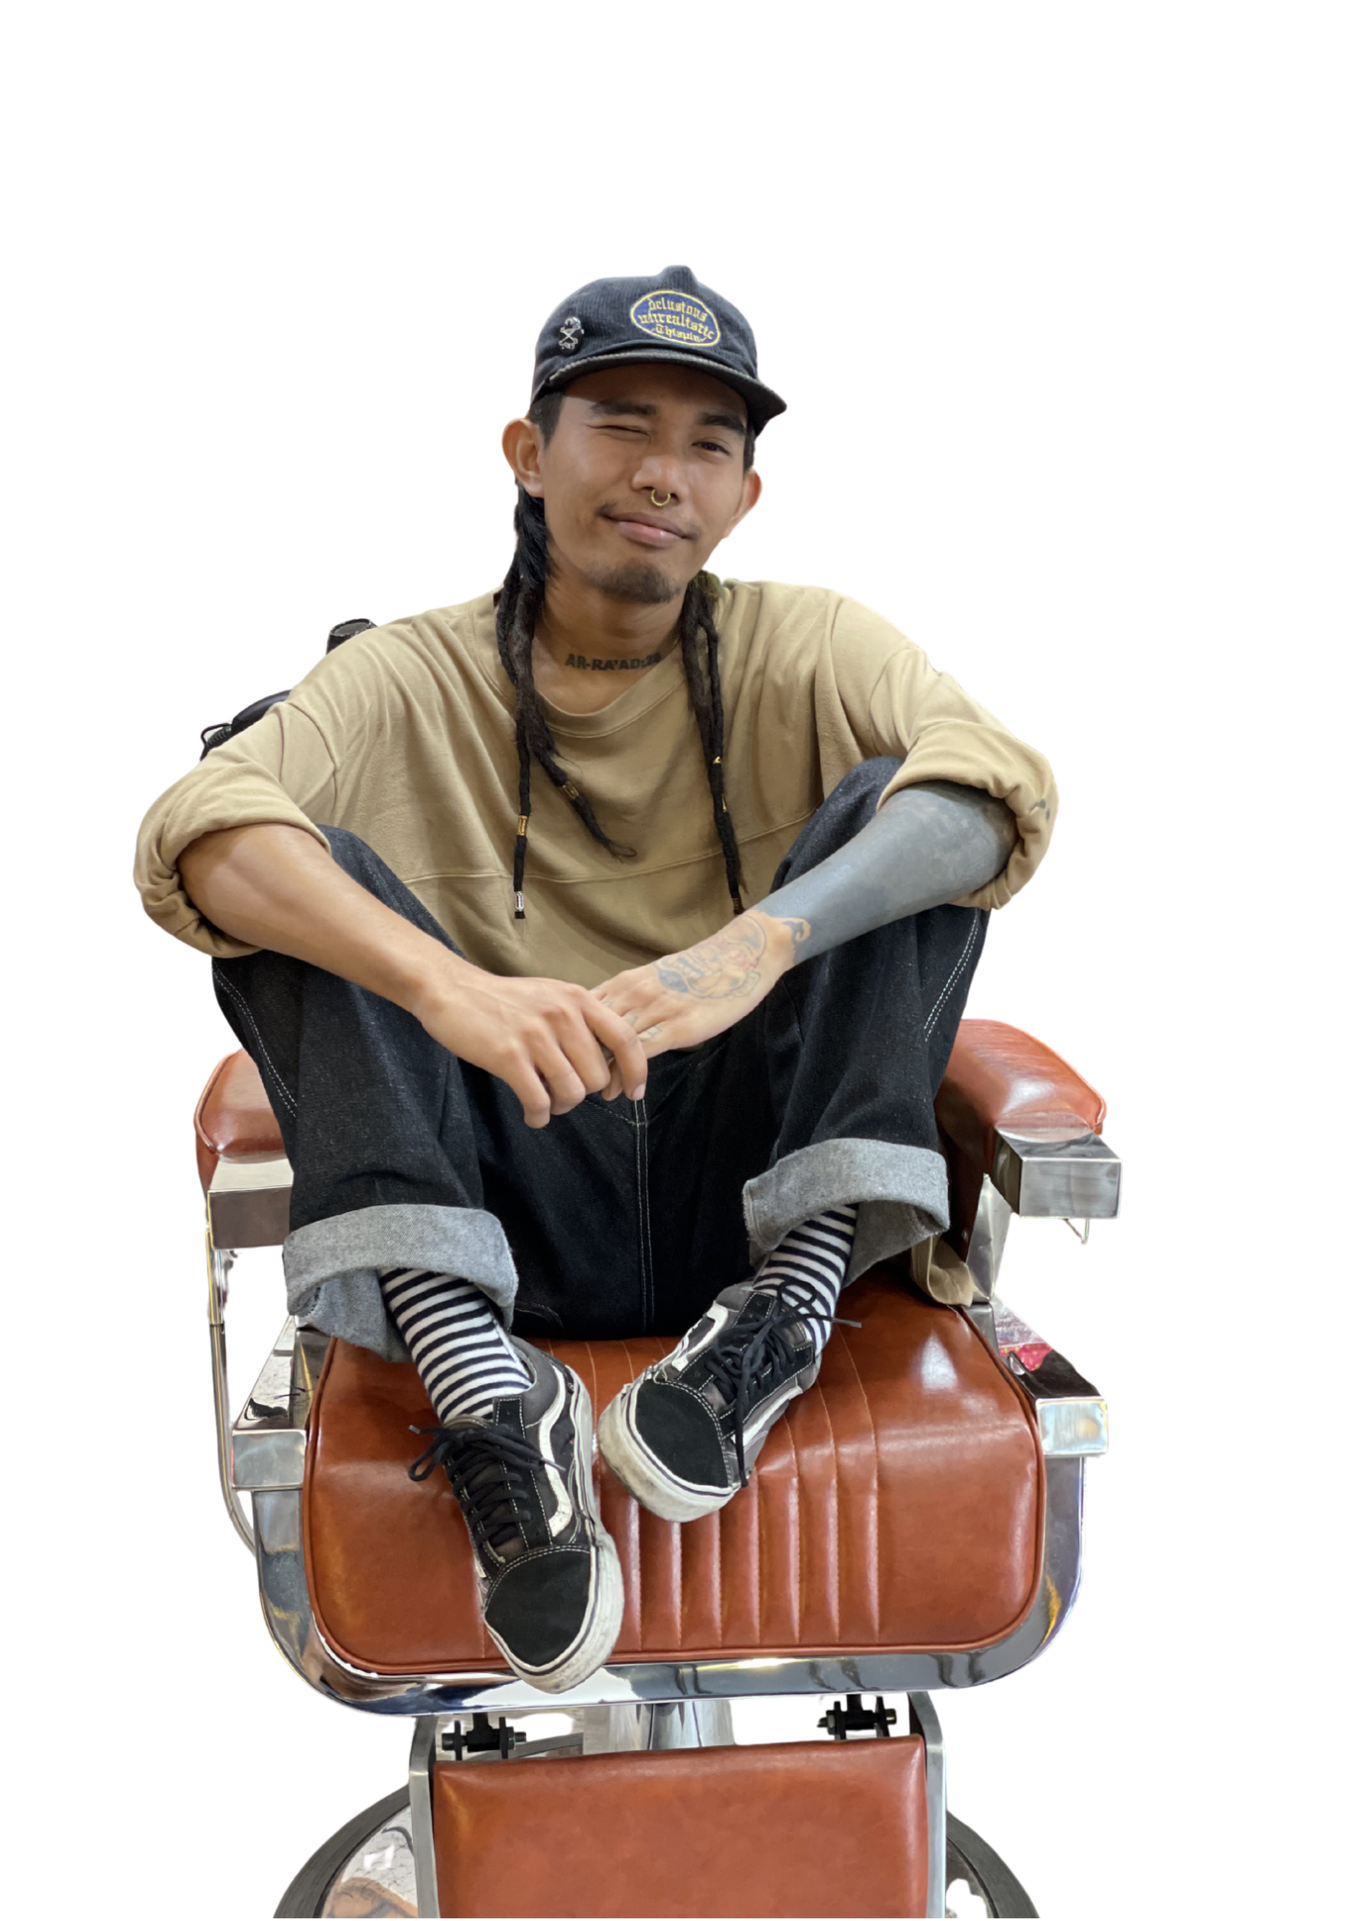
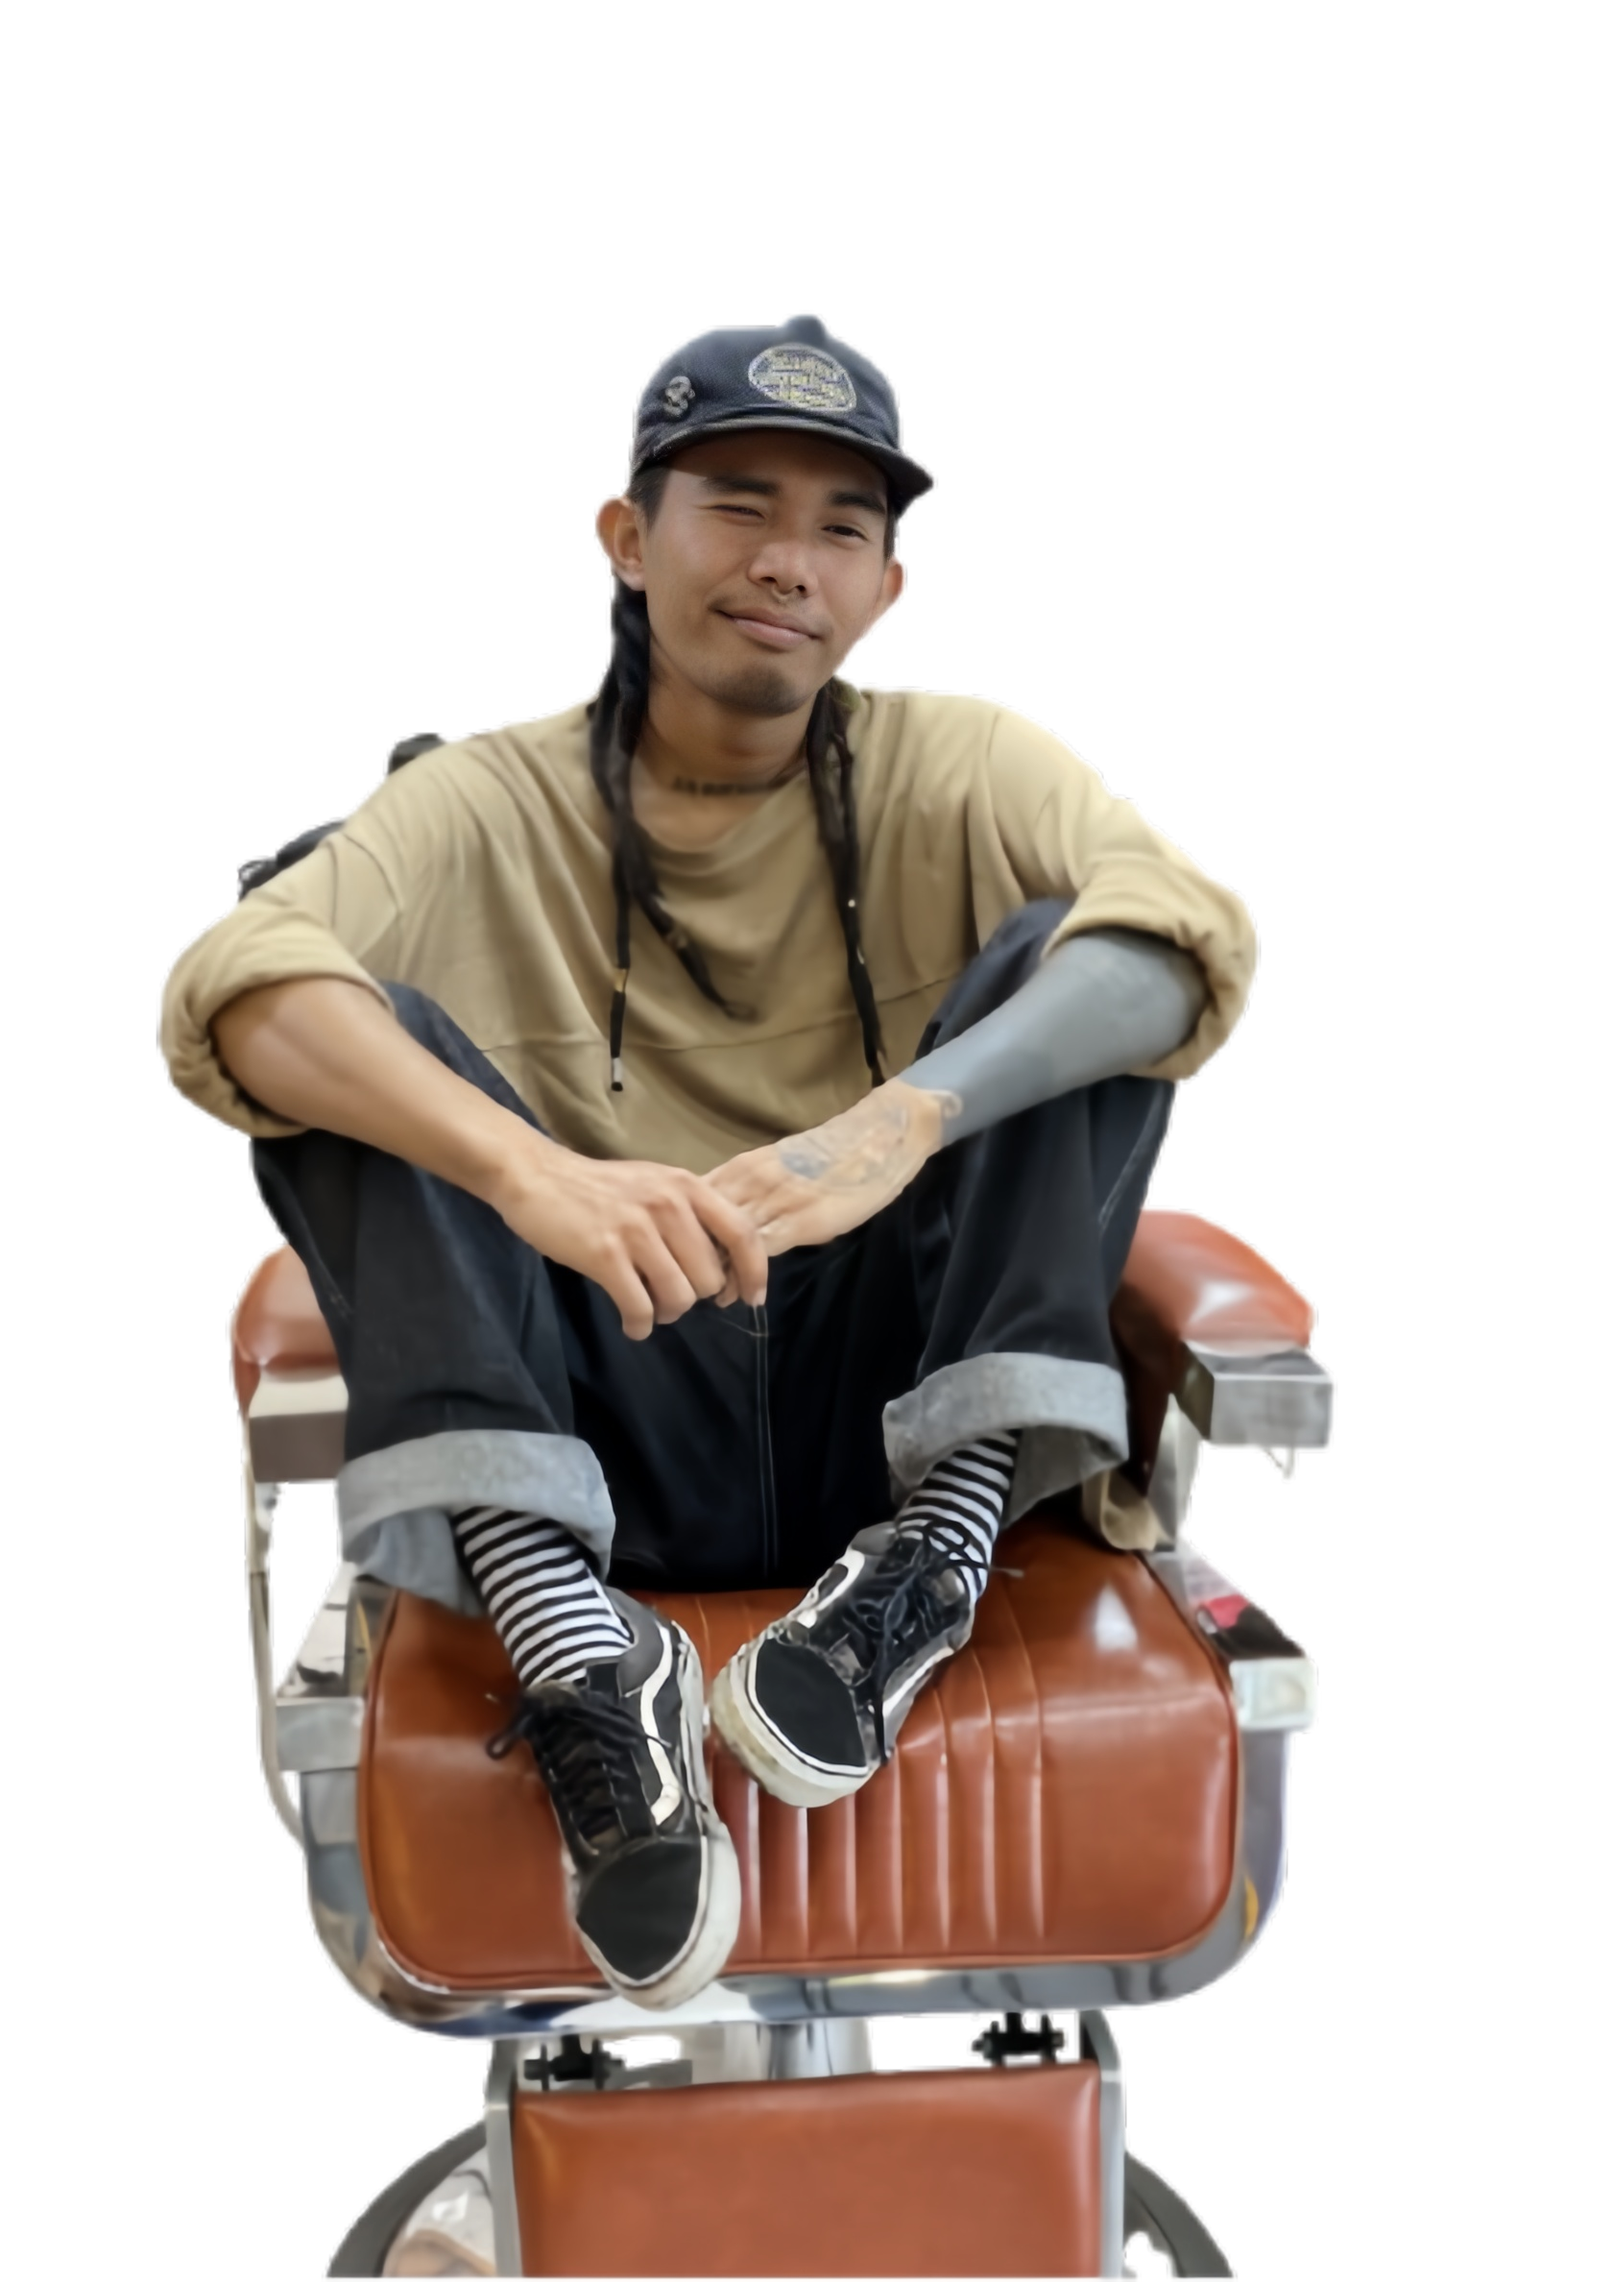
tambah konten barber grid + ubah foto owner

diff --git a/frontend/components/company/BarbermanGrid.tsx b/frontend/components/company/BarbermanGrid.tsx
@@ -16,25 +16,42 @@ interface Barber {
 }
 
 const barbers: Barber[] = [
-  { slug: "aldi",  name: "Aldi", title: "Fade Specialist",      handle: "fadeking",   rating: "4.9", reviewCount: "2300+", image: "/aldi.png",  hue: 174 },
-  { slug: "ali",    name: "Ali",     title: "Classic & Modern Cut", handle: "thesculptor", rating: "4.9", reviewCount: "1850+", image: "/ali.png",    hue: 266 },
-  { slug: "ferdi",    name: "Ferdi",     title: "Line Up & Design",     handle: "sharpie",    rating: "4.8", reviewCount: "1420+", image: "/ferdi.png",    hue: 45  },
-  { slug: "bastian", name: "Bastian Narendra", title: "Color & Beard Art",    handle: "theartist",  rating: "4.9", reviewCount: "1980+", image: "/bastian.png", hue: 24  },
+  { slug: "aldi",    name: "Aldi",             title: "Fade Specialist",       handle: "fadeking",     rating: "4.9", reviewCount: "2300+", image: "/aldi.png",    hue: 174 },
+  { slug: "wanda",   name: "Wanda",            title: "Classic & Modern Cut",  handle: "thesculptor",  rating: "4.9", reviewCount: "1850+", image: "/wanda.png",   hue: 266 },
+  { slug: "roni",    name: "Roni",             title: "Line Up & Design",      handle: "sharpie",      rating: "4.8", reviewCount: "1420+", image: "/roni.png",    hue: 45  },
+  { slug: "ali",     name: "Ali",              title: "Color & Beard Art",     handle: "theartist",    rating: "4.9", reviewCount: "1980+", image: "/ali.png",     hue: 24  },
+  { slug: "ferdi",   name: "Ferdi",            title: "Texture & Curly Cut",   handle: "curlmaster",   rating: "4.7", reviewCount: "1190+", image: "/ferdi.png",   hue: 200 },
+  { slug: "gevan",   name: "Gevan",            title: "Pompadour Expert",      handle: "slickstyle",   rating: "4.8", reviewCount: "1650+", image: "/gevan.png",   hue: 320 },
+  { slug: "ipan",    name: "Ipan",             title: "Mullet & Edgy Cut",     handle: "rebelcuts",    rating: "4.9", reviewCount: "2050+", image: "/ipan.png",    hue: 12  },
+  { slug: "iyan",    name: "Iyan",             title: "Buzz Cut Specialist",   handle: "shortnclean",  rating: "4.6", reviewCount: "980+",  image: "/iyan.png",    hue: 88  },
+  { slug: "panda",   name: "Panda",            title: "Crop & Quiff Master",   handle: "topknotpro",   rating: "4.8", reviewCount: "1340+", image: "/panda.png",   hue: 145 },
+  { slug: "ian",     name: "Ian",              title: "Vintage Pomade Style",  handle: "oldschoolcut", rating: "4.7", reviewCount: "1100+", image: "/ian.png",     hue: 300 },
+  { slug: "randy",   name: "Rabdy",            title: "Undercut Specialist",   handle: "underdog",     rating: "4.6", reviewCount: "870+",  image: "/randy.png",   hue: 230 },
+  { slug: "pandu",   name: "Pandu",            title: "Kids & Family Cut",     handle: "littlebarber", rating: "4.8", reviewCount: "1480+", image: "/pandu.png",   hue: 8   },
+  { slug: "emon",    name: "Fil Emon",         title: "Hair Tattoo Design",    handle: "inkedhair",    rating: "4.9", reviewCount: "1920+", image: "/emon.png",    hue: 280 },
 ];
 
 // Holographic behind-gradient yang mengikuti warna aksen tiap barber (tema terang)
-const accentGradient = (h: number) =>
+// offset1/offset2 menambah variasi karakter gradien antar barber tanpa mengubah struktur visual
+const accentGradient = (h: number, offset1: number = 45, offset2: number = 60) =>
   `radial-gradient(farthest-side circle at var(--pointer-x) var(--pointer-y),hsla(${h},75%,82%,var(--card-opacity)) 4%,hsla(${h},60%,76%,calc(var(--card-opacity)*0.75)) 10%,hsla(${h},45%,72%,calc(var(--card-opacity)*0.5)) 50%,hsla(${h},25%,70%,0) 100%),` +
   `radial-gradient(35% 52% at 55% 20%,hsla(${h},92%,70%,0.55) 0%,hsla(${h},92%,70%,0) 100%),` +
-  `radial-gradient(100% 100% at 50% 50%,hsla(${(h + 45) % 360},85%,72%,0.45) 1%,hsla(${h},85%,72%,0) 76%),` +
-  `conic-gradient(from 124deg at 50% 50%,hsla(${h},85%,72%,0.9) 0%,hsla(${(h + 60) % 360},88%,75%,0.9) 40%,hsla(${(h + 60) % 360},88%,75%,0.9) 60%,hsla(${h},85%,72%,0.9) 100%)`;
+  `radial-gradient(100% 100% at 50% 50%,hsla(${(h + offset1) % 360},85%,72%,0.45) 1%,hsla(${h},85%,72%,0) 76%),` +
+  `conic-gradient(from 124deg at 50% 50%,hsla(${h},85%,72%,0.9) 0%,hsla(${(h + offset2) % 360},88%,75%,0.9) 40%,hsla(${(h + offset2) % 360},88%,75%,0.9) 60%,hsla(${h},85%,72%,0.9) 100%)`;
+
+// Variasi offset per index — siklus 4 kombinasi biar tiap card punya "karakter" gradien sedikit beda
+const gradientOffsets = [
+  { o1: 45, o2: 60 },
+  { o1: 60, o2: 45 },
+  { o1: 30, o2: 75 },
+  { o1: 75, o2: 30 },
+];
 
 export default function BarbermanGrid() {
   const router = useRouter();
   const scrollRef = useRef<HTMLDivElement>(null);
   const [canLeft, setCanLeft] = useState(false);
   const [canRight, setCanRight] = useState(false);
-  // hint = panah kelap-kelip; berhenti setelah user scroll atau timeout
   const [hint, setHint] = useState(true);
 
   const updateArrows = useCallback(() => {
@@ -52,7 +69,7 @@ export default function BarbermanGrid() {
 
     const onScroll = () => {
       updateArrows();
-      setHint(false); // begitu user mulai scroll, berhenti kelap-kelip
+      setHint(false);
     };
 
     el.addEventListener("scroll", onScroll, { passive: true });
@@ -69,7 +86,6 @@ export default function BarbermanGrid() {
   const scrollByCards = (dir: 1 | -1) => {
     const el = scrollRef.current;
     if (!el) return;
-    // geser ~80% lebar viewport agar pindah beberapa kartu
     el.scrollBy({ left: dir * el.clientWidth * 0.8, behavior: "smooth" });
   };
 
@@ -79,8 +95,9 @@ export default function BarbermanGrid() {
         ref={scrollRef}
         className="no-scrollbar flex gap-6 overflow-x-auto snap-x snap-mandatory scroll-px-6 px-1 py-10"
       >
-        {barbers.map((barber) => {
+        {barbers.map((barber, index) => {
           const go = () => router.push(`/barberman/${barber.slug}`);
+          const { o1, o2 } = gradientOffsets[index % gradientOffsets.length];
           return (
             <div
               key={barber.slug}
@@ -98,7 +115,7 @@ export default function BarbermanGrid() {
                 handle={barber.handle}
                 status={`★ ${barber.rating} · ${barber.reviewCount} ulasan`}
                 contactText="Lihat Profil"
-                behindGradient={accentGradient(barber.hue)}
+                behindGradient={accentGradient(barber.hue, o1, o2)}
                 onContactClick={go}
               />
             </div>
@@ -106,7 +123,6 @@ export default function BarbermanGrid() {
         })}
       </div>
 
-      {/* ── Panah kiri (muncul + kelap-kelip hanya saat bisa scroll ke kiri) ── */}
       {canLeft && (
         <button
           type="button"
@@ -120,7 +136,6 @@ export default function BarbermanGrid() {
         </button>
       )}
 
-      {/* ── Panah kanan ── */}
       {canRight && (
         <button
           type="button"

diff --git a/frontend/components/company/BarbermanPreview.tsx b/frontend/components/company/BarbermanPreview.tsx
@@ -5,44 +5,44 @@ import BarberPage from "@/components/company/BarberPage";
 
 const barbers = [
   {
-    slug: "hendra",
-    name: "Hendra Schevenko",
+    slug: "aldi",
+    name: "Aldi",
     role: "Fade King",
     specialty: "Fade Specialist",
     rating: "4.9",
     reviewCount: "2300+",
     imageColor: "bg-teal-500",
-    imageUrl: "/hendra.png",
+    imageUrl: "/aldi.png",
   },
   {
-    slug: "juan",
-    name: "Juan Samudra",
+    slug: "wanda",
+    name: "Wanda",
     role: "The Sculptor",
     specialty: "Classic & Modern Cut",
     rating: "4.9",
     reviewCount: "1850+",
     imageColor: "bg-purple-400",
-    imageUrl: "/juan.png",
+    imageUrl: "/wanda.png",
   },
   {
-    slug: "yoga",
-    name: "Yoga Harahap",
+    slug: "roni",
+    name: "Roni",
     role: "Sharpie",
     specialty: "Line Up & Design",
     rating: "4.8",
     reviewCount: "1420+",
     imageColor: "bg-yellow-400",
-    imageUrl: "/yoga.png",
+    imageUrl: "/roni.png",
   },
   {
-    slug: "bastian",
-    name: "Bastian Narendra",
+    slug: "ali",
+    name: "Ali",
     role: "The Artist",
     specialty: "Color & Beard Art",
     rating: "4.9",
     reviewCount: "1980+",
     imageColor: "bg-orange-400",
-    imageUrl: "/bastian.png",
+    imageUrl: "/ali.png",
   },
 ];
 

diff --git a/frontend/app/(company)/barberman/[slug]/page.tsx b/frontend/app/(company)/barberman/[slug]/page.tsx
@@ -2,10 +2,19 @@ import { notFound } from 'next/navigation';
 import BarberDetailClients from "@/components/company/BarberDetailClients";
 
 const barbers = [
-  { slug: "hendra",  name: "Hendra Schevenko" },
-  { slug: "juan",    name: "Juan Samudra"      },
-  { slug: "yoga",    name: "Yoga Harahap"      },
-  { slug: "bastian", name: "Bastian Narendra"  },
+  { slug: "aldi",  name: "Aldi" },
+  { slug: "wanda", name: "Wanda"      },
+  { slug: "roni",  name: "Roni"      },
+  { slug: "ali",   name: "Ali"  },
+  { slug: "ferdi",   name: "Ferdi"  },
+  { slug: "gevan",   name: "Gevan"  },
+  { slug: "ipan",   name: "Ipan"  },
+  { slug: "iyan",   name: "Iyan"  },
+  { slug: "panda",   name: "Panda"  },
+  { slug: "ian",   name: "Ian"  },
+  { slug: "randy",   name: "Randy"  },
+  { slug: "pandu",   name: "Pandu"  },
+  { slug: "emon",   name: "Emon"  },
 ];
 
 export default async function BarberDetailPage({ params }: { params: Promise<{ slug: string }> }) {

diff --git a/frontend/components/company/HeroSection.tsx b/frontend/components/company/HeroSection.tsx
@@ -221,8 +221,12 @@ const HeroSection = ({ onMenuClick: _ }: HeroSectionProps) => {
             <div className="absolute top-16 right-12 w-16 h-16 bg-[#7B5EA7]/15 rounded-full z-0" />
 
             {/* Foto owner */}
-            <div className="relative z-10 w-full max-w-[560px] lg:max-w-[920px] h-full flex items-end justify-center">
-              <img src="/owner.png" alt="Barber Professional" className="w-full h-full object-contain object-bottom" />
+            <div className="relative z-10 w-full max-w-[680px] lg:max-w-[1100px] h-full flex items-end justify-center">
+              <img src="/teo.png" 
+               alt="Barber Professional" 
+               className="w-full h-full object-contain object-bottom"
+               style={{ transform: 'scale(1.65)', transformOrigin: 'bottom center' }} 
+              />
             </div>
 
             {/* ── Doodle layer — semua inset aman, tidak menyentuh tepi ── */}
